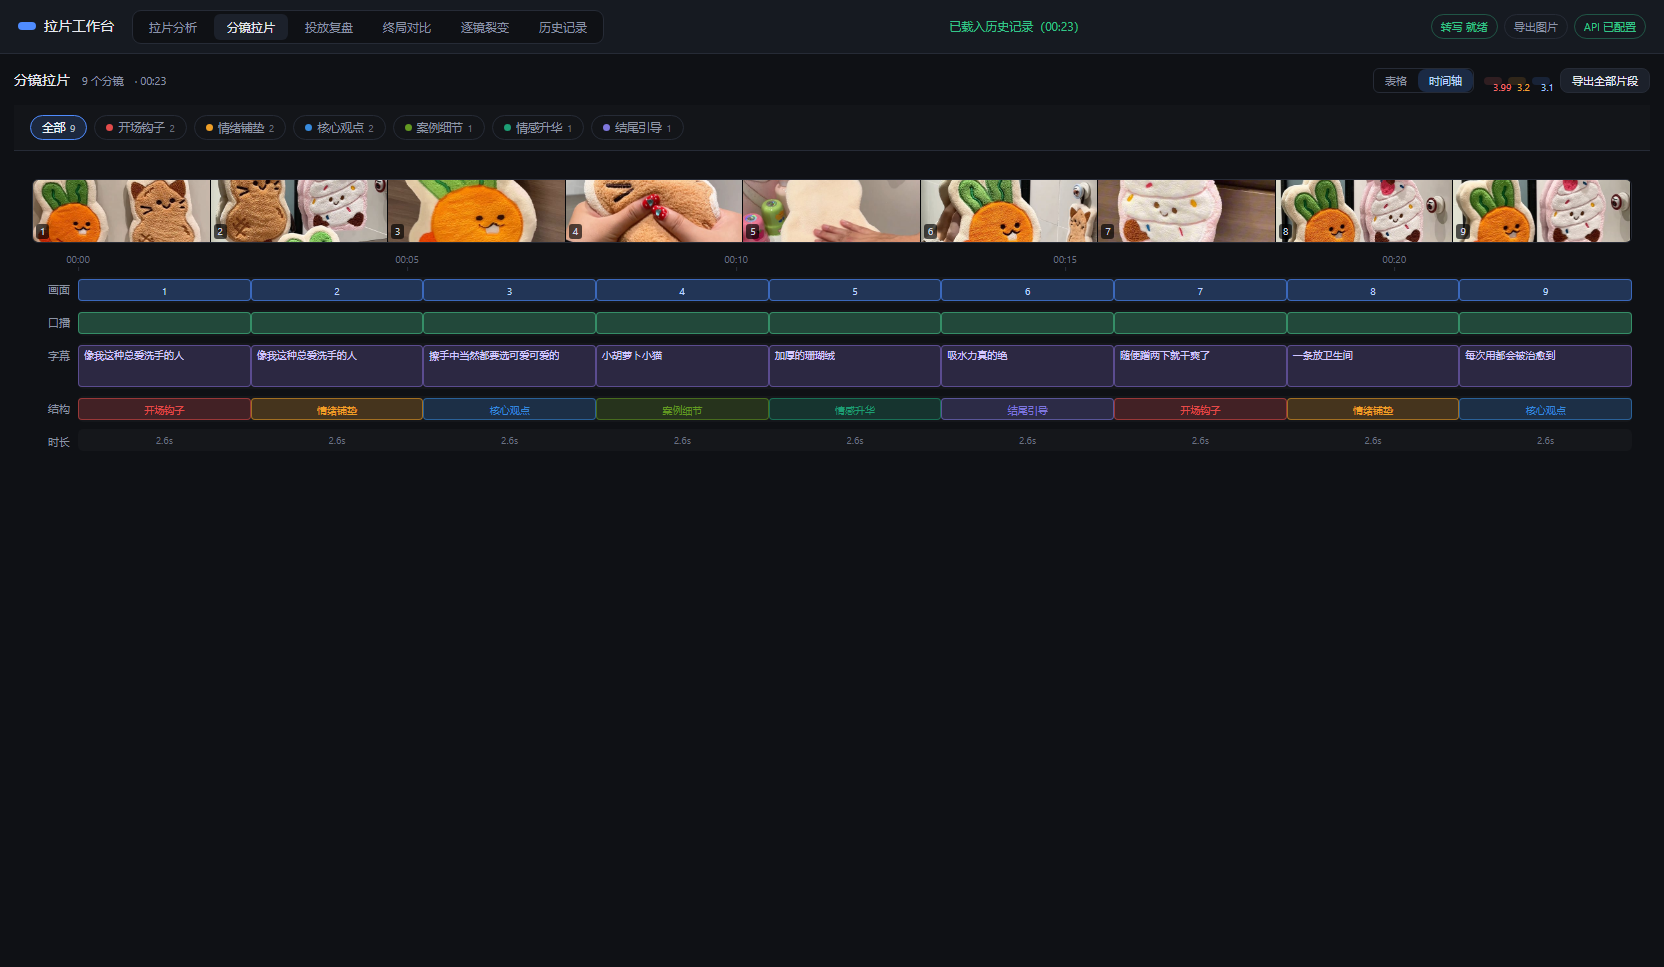
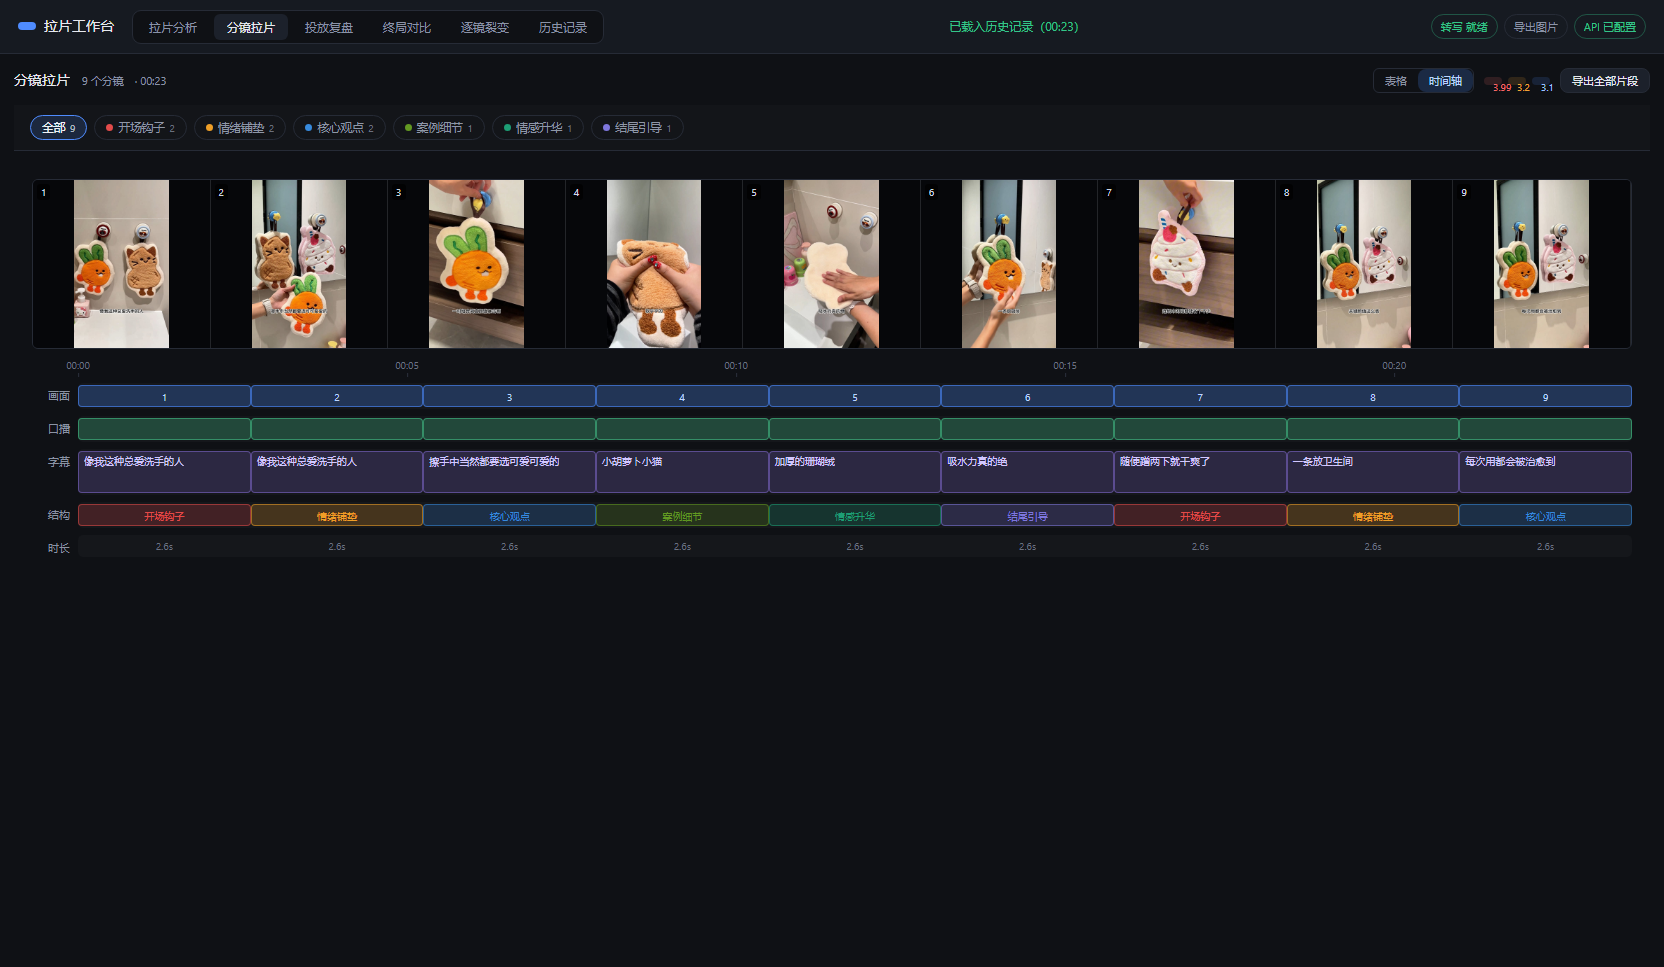
时间轴缩略图加高到 170px 并改为 contain 完整显示竖屏画面，格子间加分隔线

Changed region(s): [[0.0, 0.1861, 1.0, 0.5584]]

diff --git a/src/App.vue b/src/App.vue
@@ -4209,7 +4209,7 @@ button.mini {
 
 .tl-thumbs {
   position: relative;
-  height: 64px;
+  height: 170px;
   margin-bottom: 8px;
   border-radius: 6px;
   overflow: hidden;
@@ -4222,22 +4222,28 @@ button.mini {
   top: 0;
   height: 100%;
   overflow: hidden;
-  border-right: 1px solid rgba(0, 0, 0, 0.55);
+  border-right: 1px solid rgba(255, 255, 255, 0.09);
   cursor: pointer;
+  transition: background 0.15s;
+}
+
+.tl-thumb:hover {
+  background: rgba(76, 141, 255, 0.08);
 }
 
 .tl-thumb img {
   width: 100%;
   height: 100%;
-  object-fit: cover;
+  object-fit: contain;
+  background: #06070a;
   display: block;
 }
 
 .tl-thumb-no {
   position: absolute;
-  left: 3px;
-  bottom: 3px;
-  font-size: 9.5px;
+  left: 4px;
+  top: 4px;
+  font-size: 10px;
   padding: 0 4px;
   border-radius: 3px;
   background: rgba(0, 0, 0, 0.66);
